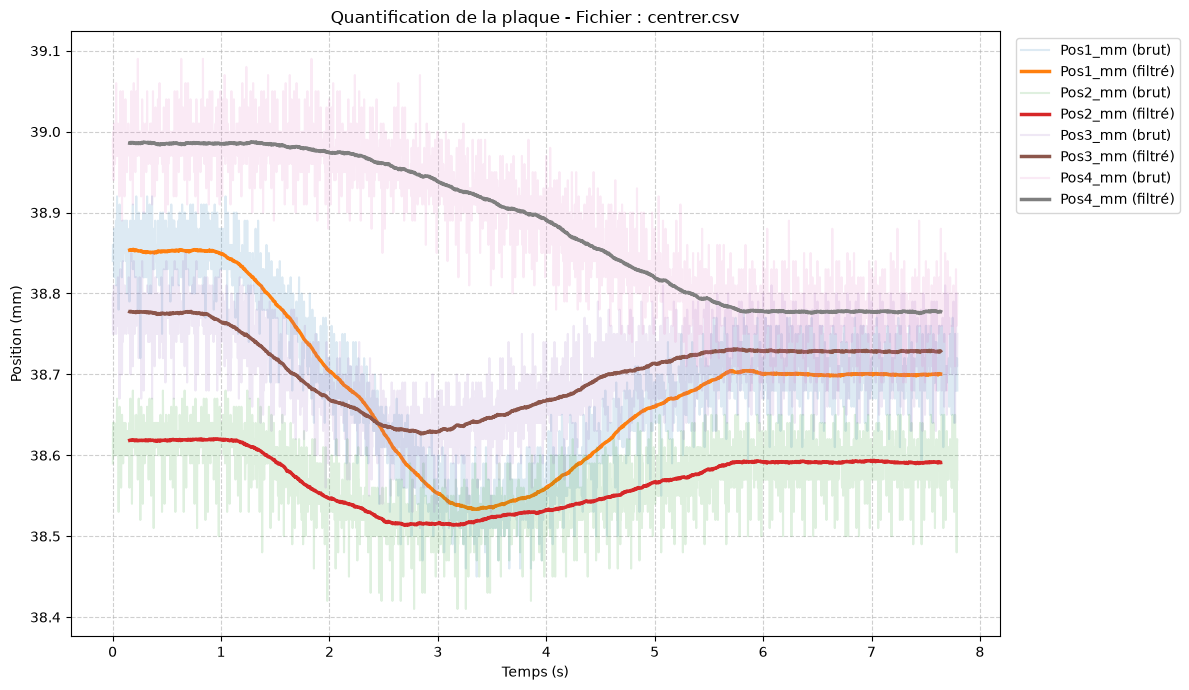
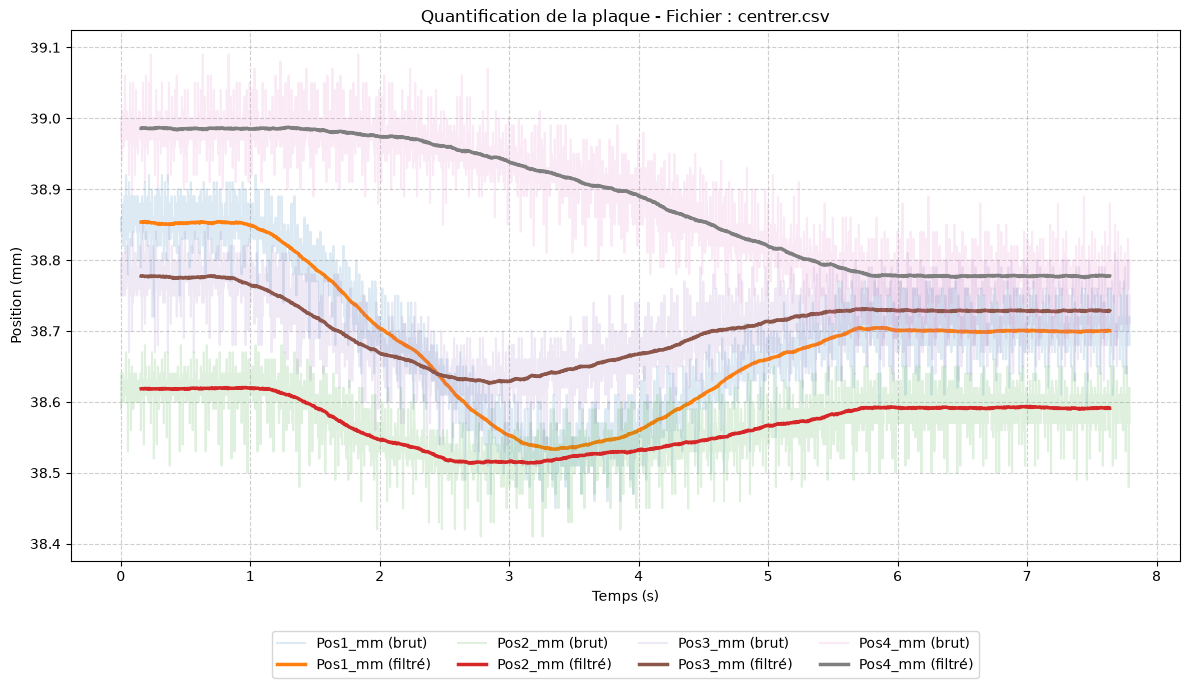
Ajout des images dans l'annexe

diff --git a/content/07-MesurePlaque.tex b/content/07-MesurePlaque.tex
@@ -17,17 +17,25 @@ La mesure réaliser dans ce chapitre a dès lors pour but de quantifier ce creux
 \section{Mesure de la plaque d'origine}
 La mesure sera réaliser en suivant le protocole de mesure présent dans l'\autoref{annexe:Mapping}.
 
-Afin de ne pas surcharcher le rapport, les mesures présentes dans ce chapitre se concentrerons sur les mesures réaliser avec les inducteurs se situant au centre de l'entrefer. Les autres mesures sont disponible dans l'\autoref{label}
+Afin de ne pas surcharcher le rapport, les mesures présentes dans ce chapitre se concentrerons sur les mesures réaliser avec les inducteurs se situant au centre de l'entrefer. Les autres mesures sont disponible dans l'\autoref{annexe:MapAutre}
+
+De plus, les mesures furent réaliser en mettant les capteurs de positons a leur état d'usine pour ne pas être limité par les plages de la méthode teach-in.
 
 \subsection{Mesure}
+La mesure obtenue est présente dans la \autoref{fig:MapCentre} :
 
+\begin{figure}[H]
+    \centering
+    \includegraphics[width=1\linewidth]{assets/content/07-MesurePlaque/MapCentre.png}
+    \caption{Mapping de la plaque avec les inducteurs centrés}
+    \label{fig:MapCentre}
+\end{figure}
 
 \subsection{Analyse des mesures}
-
-\subsection{Choix des inductances et des résistances}
+Comm
 
 \section{Changement de plaque}
-La plaque fut retirer et remplacer par une plaque en composite d'aluminum ayant une surface blanche relativement matte.
+Suite a la mesure, il était clair que la plaque devait être changer afin d'avoir une meilleur référence pour la mesure de positions. a
 
 \section{Mesure comparative}
 Une mesure comparative entre la plaque précédente et la nouvelle fut réaliser

diff --git a/appendix/12-MesureInducteur.tex b/appendix/12-MesureInducteur.tex
@@ -4,28 +4,28 @@ Cette annexe présente les résultats obtenus à la suite de l'implémentation d
 
 \begin{figure}[H]
     \centering
-    \includegraphics[width=0.8\linewidth]{assets/appendix/11-MesureInducteur/Ind1.png}
+    \includegraphics[width=0.8\linewidth]{assets/appendix/12-MesureInducteur/Ind1.png}
     \caption{Mesure du comportement de la régulation de position sur l'inducteur 1}
     \label{fig:MesCompRegPosInd1}
 \end{figure}
 
 \begin{figure}[H]
     \centering
-    \includegraphics[width=1\linewidth]{assets/appendix/11-MesureInducteur/Ind2.png}
+    \includegraphics[width=1\linewidth]{assets/appendix/12-MesureInducteur/Ind2.png}
     \caption{Mesure du comportement de la régulation de position sur l'inducteur 2}
     \label{fig:MesCompRegPosInd2}
 \end{figure}
 
 \begin{figure}[H]
     \centering
-    \includegraphics[width=1\linewidth]{assets/appendix/11-MesureInducteur/Ind3.png}
+    \includegraphics[width=1\linewidth]{assets/appendix/12-MesureInducteur/Ind3.png}
     \caption{Mesure du comportement de la régulation de position sur l'inducteur 3}
     \label{fig:MesCompRegPosInd3}
 \end{figure}
 
 \begin{figure}[H]
     \centering
-    \includegraphics[width=1\linewidth]{assets/appendix/11-MesureInducteur/Ind4.png}
+    \includegraphics[width=1\linewidth]{assets/appendix/12-MesureInducteur/Ind4.png}
     \caption{Mesure du comportement de la régulation de position sur l'inducteur 4}
     \label{fig:MesCompRegPosInd4}
 \end{figure}

diff --git a/appendix/11-Mapping.tex b/appendix/11-Mapping.tex
@@ -1,4 +1,27 @@
 \chapter{Réalisation d'un mapping de la maquette sur différente positions}
-\label{annexe:Mapping}
+\label{annexe:MapAutre}
 Cette annexe vient présenter les autres mesures dédié au mapping de la plaque.
 
+\begin{figure}[H]
+    \centering
+    \includegraphics[width=1\linewidth]{assets/appendix/11-Mapping/gauche.png}
+    \caption{Mapping de la plaque avec les inducteurs à gauche}
+\end{figure}
+
+\begin{figure}[H]
+    \centering
+    \includegraphics[width=1\linewidth]{assets/appendix/11-Mapping/droite.png}
+    \caption{Mapping de la plaque avec les inducteurs à doite}
+\end{figure}
+
+\begin{figure}[H]
+    \centering
+    \includegraphics[width=1\linewidth]{assets/appendix/11-Mapping/diagonale_droite.png}
+    \caption{Mapping de la plaque avec les inducteurs en diagonale vers la droite}
+\end{figure}
+
+\begin{figure}[H]
+    \centering
+    \includegraphics[width=1\linewidth]{assets/appendix/11-Mapping/diagonale_gauche.png}
+    \caption{Mapping de la plaque avec les inducteurs en diagonale vers la gauche}
+\end{figure}
